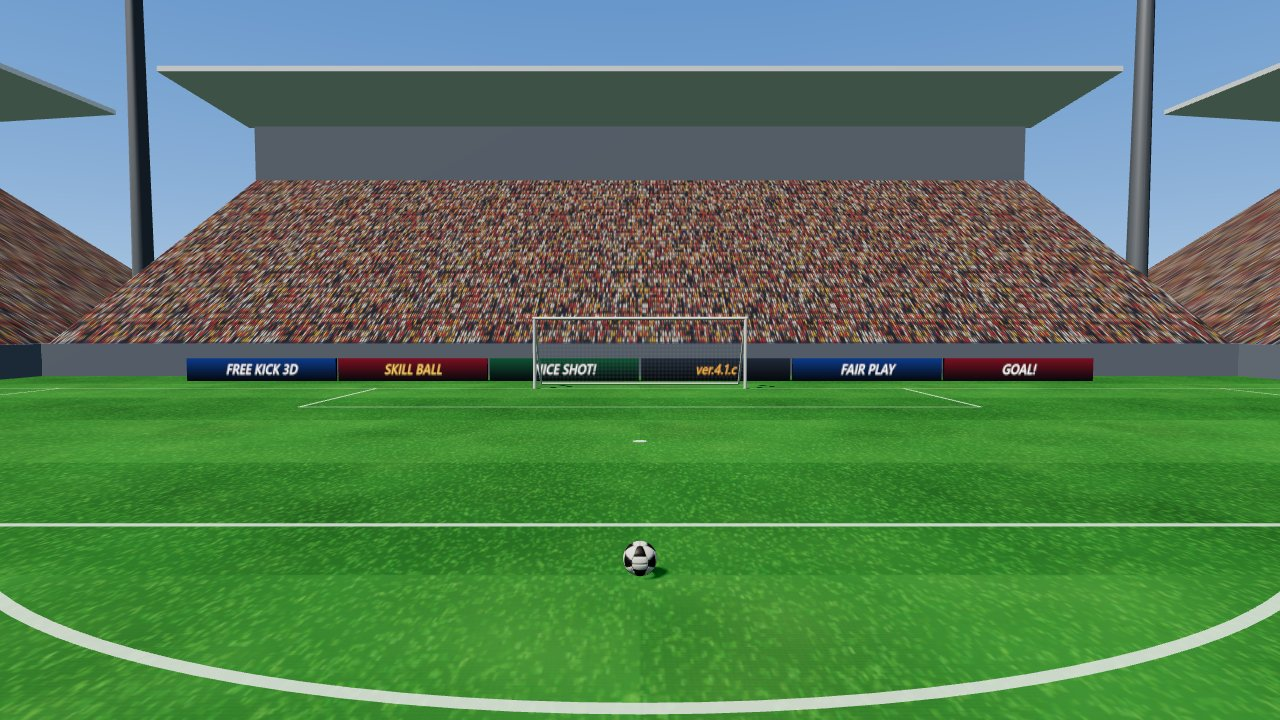
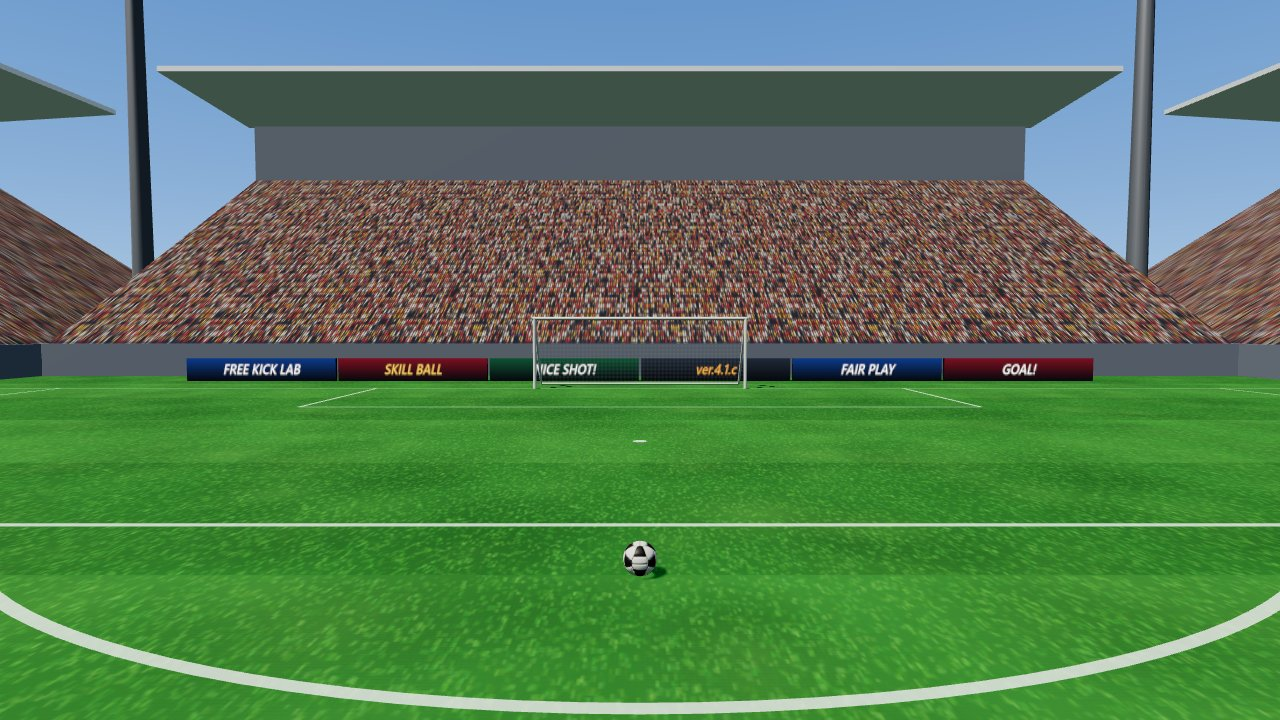
Show the game as FREE KICK LAB in ver.4.1.c
Title screen, stadium ad board, page title, thumbnail and docs now use
the arcade's name. Frozen versions keep their original names.

diff --git a/games/free-kick/src/App.tsx b/games/free-kick/src/App.tsx
@@ -231,7 +231,7 @@ export default function App() {
           )}
           <div className="title-card">
             <div className="title-version">{VERSION} · Claude Code</div>
-            <h1 className="title-logo">FREE KICK 3D</h1>
+            <h1 className="title-logo">FREE KICK LAB</h1>
             <p className="title-sub">球質を選んで、壁もキーパーも越えていけ。</p>
             <div className="title-buttons">
               <button className="menu-btn primary" onClick={() => gameRef.current?.startFreePlay()}>

diff --git a/games/free-kick/src/game/scenery.ts b/games/free-kick/src/game/scenery.ts
@@ -313,7 +313,7 @@ export function addStadium(scene: THREE.Scene, goalZ: number): void {
 
   // LED 広告ボード（ゴール裏）。照明に左右されない発光面として描く
   const ads: [string, string, string][] = [
-    ['FREE KICK 3D', '#0b3a8a', '#ffffff'],
+    ['FREE KICK LAB', '#0b3a8a', '#ffffff'],
     ['SKILL BALL', '#7a1020', '#ffd166'],
     ['NICE SHOT!', '#0f5132', '#ffffff'],
     [VERSION, '#1f2937', '#ffb547'],

diff --git a/games/free-kick/index.html b/games/free-kick/index.html
@@ -6,7 +6,7 @@
       name="viewport"
       content="width=device-width, initial-scale=1.0, maximum-scale=1.0, user-scalable=no, viewport-fit=cover"
     />
-    <title>FREE KICK 3D | ver.4.1.c</title>
+    <title>FREE KICK LAB | ver.4.1.c</title>
   </head>
   <body>
     <div id="root"></div>

diff --git a/HANDOVER.md b/HANDOVER.md
@@ -15,7 +15,7 @@ CLAUDE.md と games/free-kick/CLAUDE.md を読んで、TOMZO ARCADE の現状を
 現状（2026-10-12 時点）:
 - このリポジトリ（Tomuzou/tomzo-arcade、ブランチ main）はブラウザのミニゲーム集。公開URLは https://tomuzou.github.io/tomzo-arcade/ 。main に push すると GitHub Actions がテスト・ビルド・検証して GitHub Pages に公開する
 - 構成は npm workspaces：hub/（ゲーム一覧・PWA）、packages/core/（共通処理）、games/<id>/（各ゲーム）。ゲームの追加手順は CLAUDE.md の「ゲームを追加する手順」
-- 収録ゲームは games/free-kick/（FREE KICK 3D / FREE KICK LAB）の1本。最新版は ver.4.1.c（ver.4.0.c を引き継いだ Claude 版、src/）。過去版 ver.1.0.c / 2.0.c / 3.0.c / 3.1.g（Codex 版）/ 4.0.c は public/ の凍結ビルド。旧名（ver.c.N, ver.g.1, v1, v2）は転送ページで新しい名前へ飛ぶ（2026-10-12 に改名）
+- 収録ゲームは games/free-kick/（FREE KICK LAB）の1本。最新版は ver.4.1.c（ver.4.0.c を引き継いだ Claude 版、src/）。過去版 ver.1.0.c / 2.0.c / 3.0.c / 3.1.g（Codex 版）/ 4.0.c は public/ の凍結ビルド。旧名（ver.c.N, ver.g.1, v1, v2）は転送ページで新しい名前へ飛ぶ（2026-10-12 に改名）
 - FREE KICK LAB は旧リポジトリ Tomuzou/soccer-app から移した。旧URL /soccer-app/… は soccer-app 側の転送ページで /tomzo-arcade/free-kick/… へ飛ぶ。開発履歴は soccer-app に残っている
 - 版の凍結手順と版名のルールは games/free-kick/CLAUDE.md の「バージョン」
 - FREE KICK のブラウザテスト（Playwright）は本番ビルドを preview して全版の表示・リンク・旧名転送を確認する（npm run build のあと ARCHIVE_CHECK=1 npm run test:browser、約20秒）。CI では回していない。ゲームプレイ自体のブラウザテストは ver.3.1.g 用しかなかったので今は無い

diff --git a/games/free-kick/CLAUDE.md b/games/free-kick/CLAUDE.md
@@ -1,4 +1,4 @@
-# FREE KICK 3D（FREE KICK LAB）— CLAUDE.md
+# FREE KICK LAB — CLAUDE.md
 
 > このゲームは **TOMZO ARCADE** の `games/free-kick/`（公開URL `/tomzo-arcade/free-kick/`）。アーケード共通のルール（構成・ビルド・公開・ゲームの追加）はリポジトリ直下の `CLAUDE.md`。
 > 旧リポジトリ `Tomuzou/soccer-app` から移行した。それ以前の開発履歴はそちらに残っている。

diff --git a/games/free-kick/README.md b/games/free-kick/README.md
@@ -1,4 +1,4 @@
-# FREE KICK 3D — ver.4.1.c
+# FREE KICK LAB — ver.4.1.c
 
 > TOMZO ARCADE の1タイトルです。[アーケードのトップ](https://tomuzou.github.io/tomzo-arcade/) から他のゲームも遊べます。移行前の開発履歴は旧リポジトリ [Tomuzou/soccer-app](https://github.com/Tomuzou/soccer-app) にあります。
 
